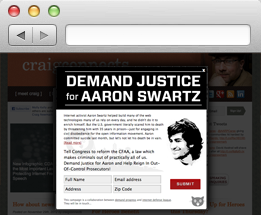
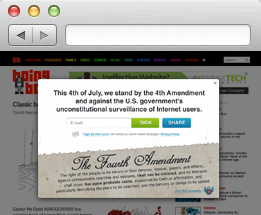
Update text to new campaign on homepage

diff --git a/internetdefense/templates/index.html b/internetdefense/templates/index.html
@@ -41,7 +41,7 @@
                 <div class="small">
                     <span class="inputs">
                         <input type="radio" name="campaign" id="single" value="" />
-                        <label for="single" class="montserrat">Just for <a href="http://www.fixthecfaa.com/">Fix the CFAA</a></label>
+                        <label for="single" class="montserrat">Just for <a href="http://www.callforfreedom.org">Call for Freedom</a></label>
                     </span>
                     <p class="description">Code is live as soon as you add it, but you'll have to update it for each new campaign.</p>
                     <fieldset style="display: none;">

diff --git a/internetdefense/static/js/src/customize.js b/internetdefense/static/js/src/customize.js
@@ -52,7 +52,7 @@
 
             singleCampaign.bind('change', function(evt){
                 // singleCampaign.attr('value', campaignChoice.val());
-                   singleCampaign.attr('value', 'fixthecfaa')
+                   singleCampaign.attr('value', 'nsa')
                 self.update();
             });
 
